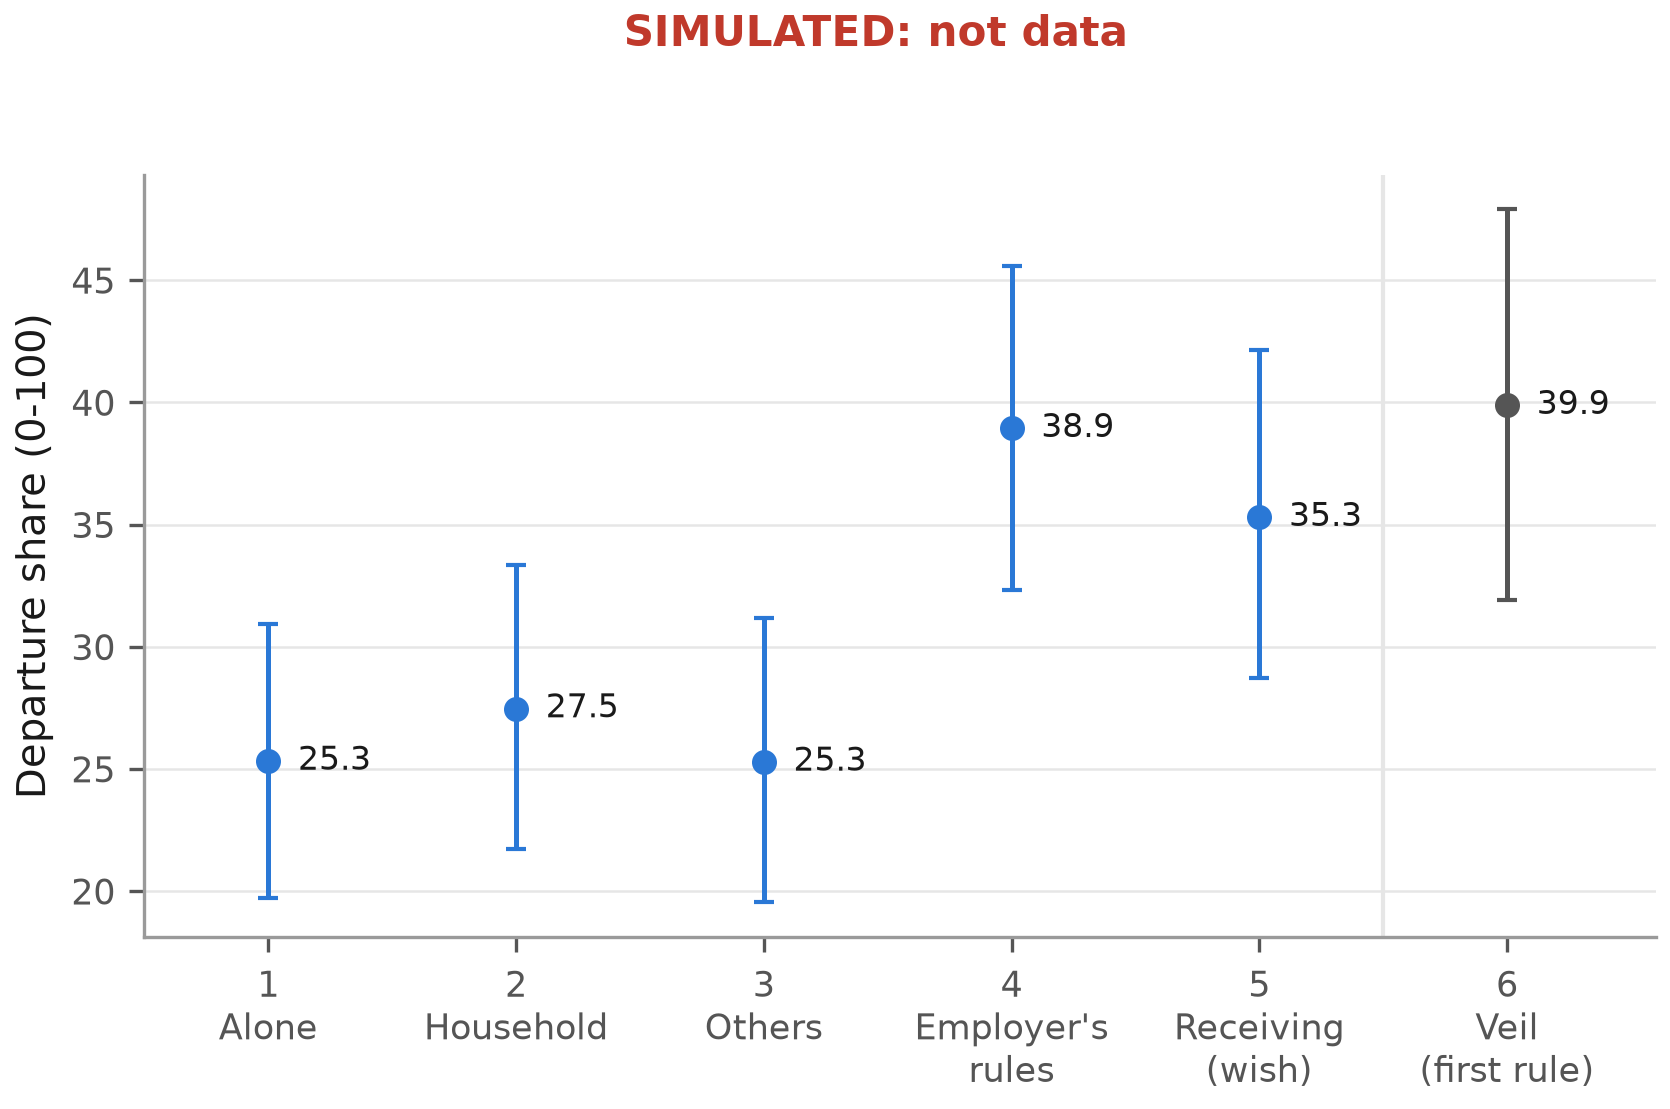
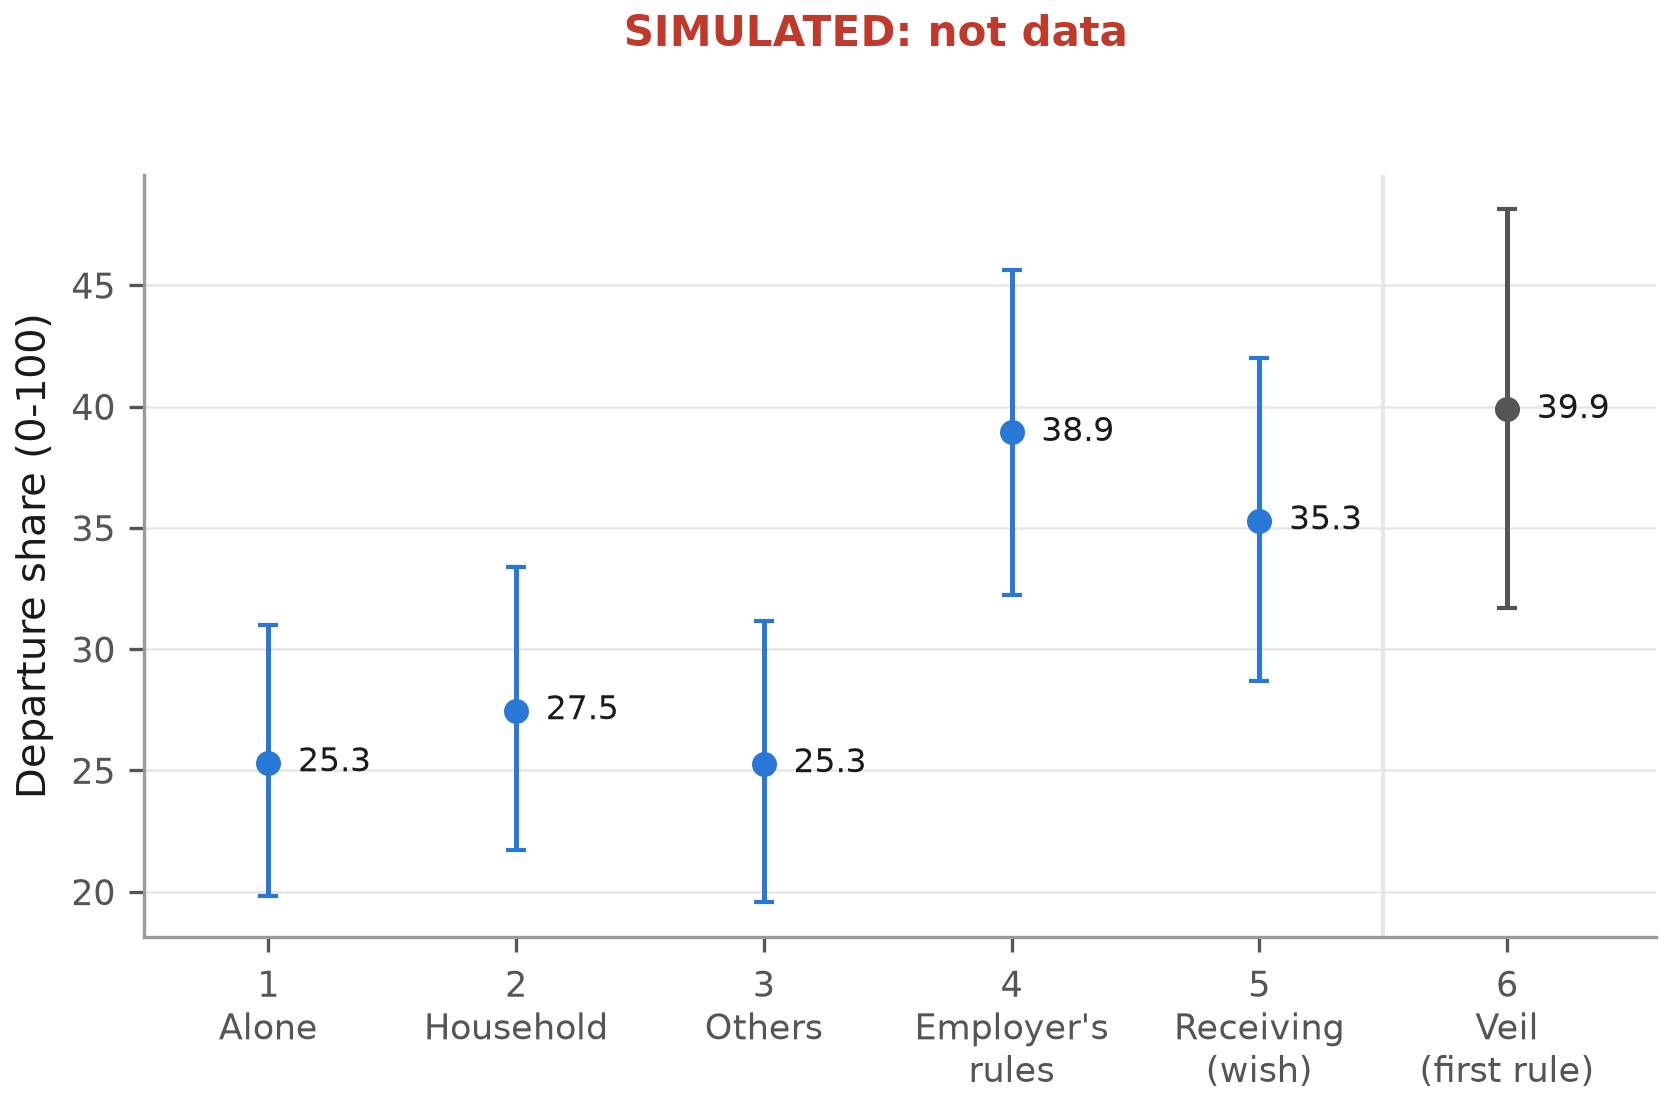
Figures draw their intervals with 10,000 resamples, as registered; the simulated run repeated (same numbers)

diff --git a/analysis/simulation/example_run/figures/figure_captions.tex b/analysis/simulation/example_run/figures/figure_captions.tex
@@ -3,7 +3,7 @@
 \includegraphics[width=\textwidth]{figures/fig_A1-A3_D3_vci_by_condition.pdf}
 \caption{Value Consistency Index by Condition}
 \label{fig:fig_A1-A3_D3_vci_by_condition}
-\par\smallskip\begin{minipage}{\textwidth}\footnotesize\textit{Note.} SIMULATED: not data. Dots are participants. Black points with bars are condition means with 95\% bootstrap confidence intervals (4,000 resamples). Dashed lines mark the level a random chooser reaches in each condition (57, 60, 63 and 60), the reference of Hypothesis D3. Hypotheses A1-A3 compare CVR + APA with each other condition.\end{minipage}
+\par\smallskip\begin{minipage}{\textwidth}\footnotesize\textit{Note.} SIMULATED: not data. Dots are participants. Black points with bars are condition means with 95\% bootstrap confidence intervals (10,000 resamples). Dashed lines mark the level a random chooser reaches in each condition (57, 60, 63 and 60), the reference of Hypothesis D3. Hypotheses A1-A3 compare CVR + APA with each other condition.\end{minipage}
 \end{figure}
 
 \begin{figure}[ht]

diff --git a/analysis/figures.py b/analysis/figures.py
@@ -55,7 +55,7 @@ def _jitter(n, seed, width=0.16):
 def _ci_mean(v, seed=1):
     v = np.asarray(v, float)
     v = v[~np.isnan(v)]
-    b = v[np.random.default_rng(seed).integers(0, len(v), (4000, len(v)))].mean(1)
+    b = v[np.random.default_rng(seed).integers(0, len(v), (10_000, len(v)))].mean(1)   # 10,000 as registered
     return v.mean(), np.percentile(b, 2.5), np.percentile(b, 97.5)
 
 
@@ -77,7 +77,7 @@ def vci_by_condition(P, out, simulated):
     _save(fig, out, "fig_A1-A3_D3_vci_by_condition", simulated,
           "Value Consistency Index by Condition",
           "Dots are participants. Black points with bars are condition means with 95% bootstrap confidence intervals "
-          "(4,000 resamples). Dashed lines mark the level a random chooser reaches in each condition (57, 60, 63 and 60), "
+          "(10,000 resamples). Dashed lines mark the level a random chooser reaches in each condition (57, 60, 63 and 60), "
           "the reference of Hypothesis D3. Hypotheses A1-A3 compare CVR + APA with each other condition.")
 
 

diff --git a/analysis/simulation/example_run/figures/figure_captions.md b/analysis/simulation/example_run/figures/figure_captions.md
@@ -1,6 +1,6 @@
 # Figure captions (SIMULATED: not data)
 
-**fig_A1-A3_D3_vci_by_condition**: *Value Consistency Index by Condition*. Note. SIMULATED: not data. Dots are participants. Black points with bars are condition means with 95% bootstrap confidence intervals (4,000 resamples). Dashed lines mark the level a random chooser reaches in each condition (57, 60, 63 and 60), the reference of Hypothesis D3. Hypotheses A1-A3 compare CVR + APA with each other condition.
+**fig_A1-A3_D3_vci_by_condition**: *Value Consistency Index by Condition*. Note. SIMULATED: not data. Dots are participants. Black points with bars are condition means with 95% bootstrap confidence intervals (10,000 resamples). Dashed lines mark the level a random chooser reaches in each condition (57, 60, 63 and 60), the reference of Hypothesis D3. Hypotheses A1-A3 compare CVR + APA with each other condition.
 
 **fig_A4_final_fit_after_misfit_first_pick**: *Final Choices That Fit the Participant's Values After a First Pick Against Them*. Note. SIMULATED: not data. Decisions in Scenarios 1-4 whose first pick was Misaligned or Strongly misaligned. Bars show the share whose final choice was Aligned or Weakly aligned, with exact (Clopper-Pearson) 95% confidence intervals; counts are decisions. Hypothesis A4 compares the three conditions with a help step with Baseline.
 

diff --git a/analysis/simulation/SIMULATION_REPORT.md b/analysis/simulation/SIMULATION_REPORT.md
@@ -2,7 +2,7 @@
 
 The registration (OSF page 6) promises: "the analysis code is written and run on simulated participants before the data are opened." This is that run. The pretend participants were made by the study's own code (tools/simulate_records.cjs), so their records have exactly the shape of real ones. **No number here is a finding.**
 
-Seed 20261117; the whole run took 28.1 minutes.
+Seed 20261117; the whole run took 41.6 minutes.
 
 ## Summary
 
